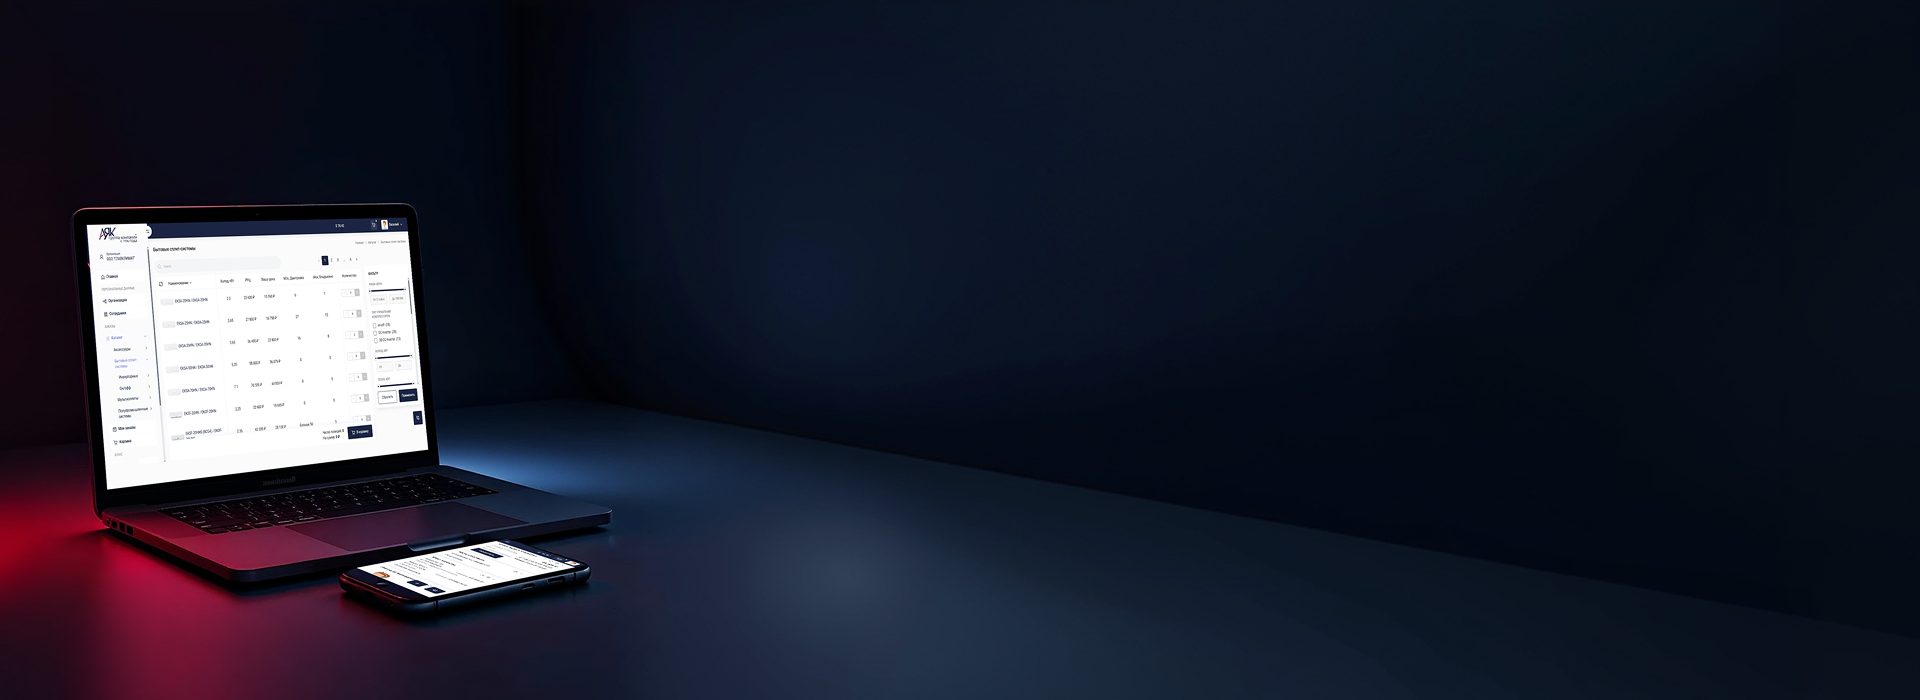
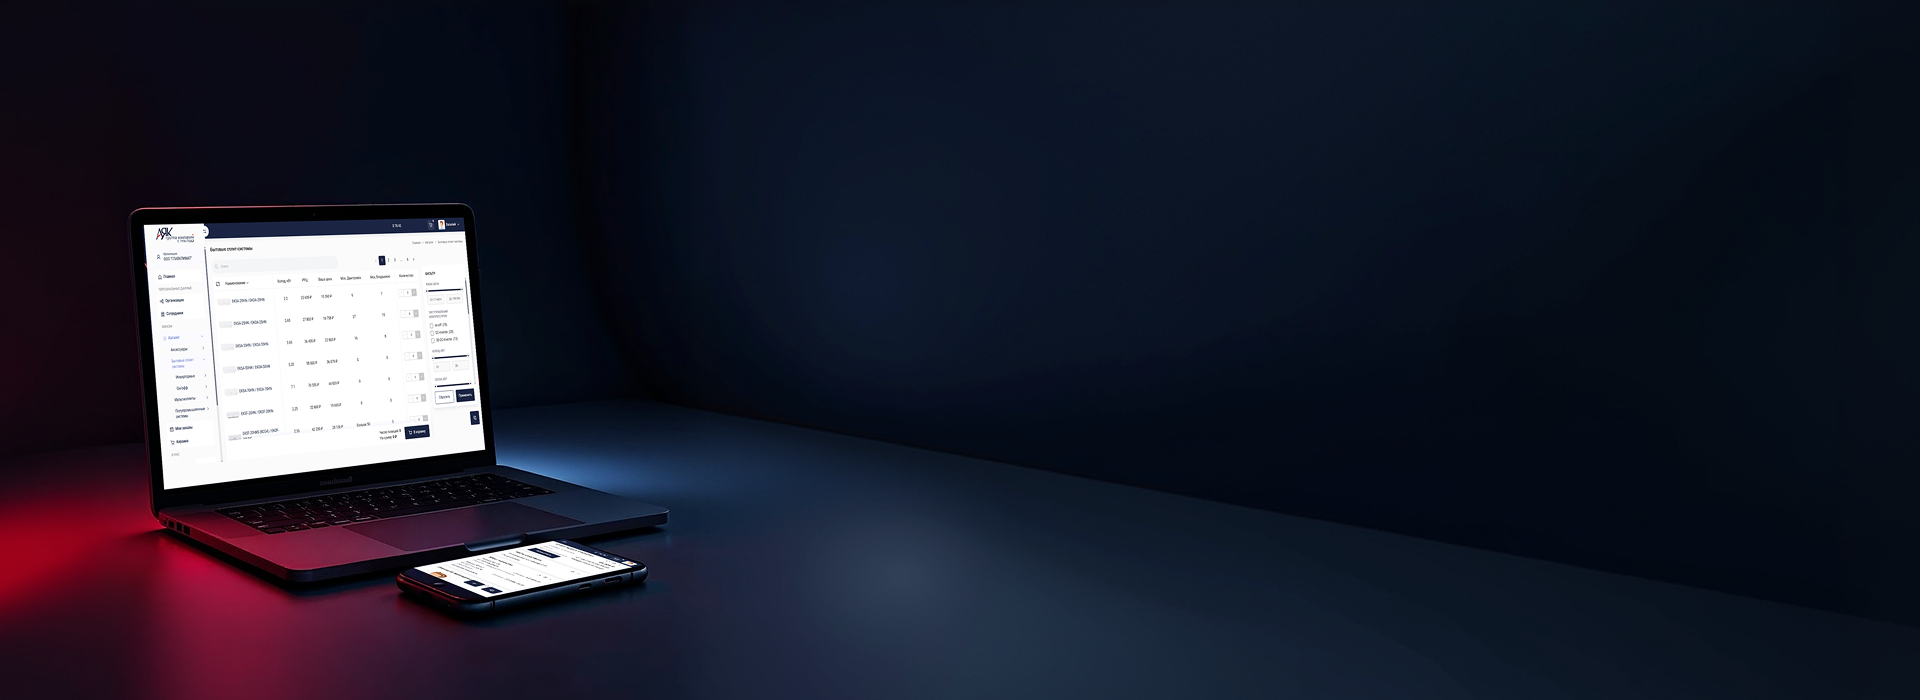
remote

Changed region(s): [[0.0, 0.27, 0.3438, 1.0]]

diff --git a/app/scss/style.scss b/app/scss/style.scss
@@ -838,6 +838,10 @@ ul {
       width: 100%;
       white-space: nowrap;
 
+      &:hover {
+        color: #c8d1e3;
+      }
+
       @media only screen and (max-width: 991px) {
         font-size: 22px;
       }

diff --git a/app/css/style.css b/app/css/style.css
@@ -812,6 +812,9 @@ ul {
   width: 100%;
   white-space: nowrap;
 }
+.footer__info a:hover {
+  color: #c8d1e3;
+}
 @media only screen and (max-width: 991px) {
   .footer__info a {
     font-size: 22px;
